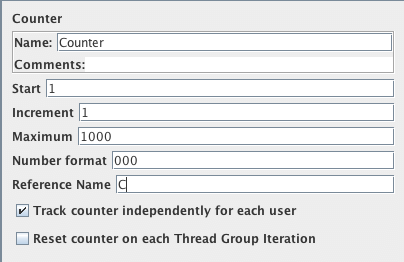
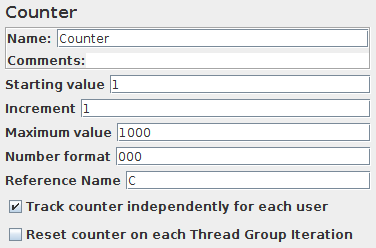
Better label/translation/documentation for labels start and max for Counter element
git-svn-id: https://svn.apache.org/repos/asf/jmeter/trunk@1804380 13f79535-47bb-0310-9956-ffa450edef68

Changed region(s): [[0.0, 0.0, 1.0, 1.0]]

diff --git a/src/components/org/apache/jmeter/modifiers/gui/CounterConfigGui.java b/src/components/org/apache/jmeter/modifiers/gui/CounterConfigGui.java
@@ -122,9 +122,9 @@ public class CounterConfigGui extends AbstractConfigGui implements ActionListene
         setBorder(makeBorder());
         setLayout(new VerticalLayout(5, VerticalLayout.BOTH));
 
-        startField = new JLabeledTextField(JMeterUtils.getResString("start"));//$NON-NLS-1$
+        startField = new JLabeledTextField(JMeterUtils.getResString("start_value"));//$NON-NLS-1$
         incrField = new JLabeledTextField(JMeterUtils.getResString("increment"));//$NON-NLS-1$
-        endField = new JLabeledTextField(JMeterUtils.getResString("max"));//$NON-NLS-1$
+        endField = new JLabeledTextField(JMeterUtils.getResString("max_value"));//$NON-NLS-1$
         varNameField = new JLabeledTextField(JMeterUtils.getResString("var_name"));//$NON-NLS-1$
         formatField = new JLabeledTextField(JMeterUtils.getResString("format"));//$NON-NLS-1$
         perUserField = new JCheckBox(JMeterUtils.getResString("counter_per_user"));//$NON-NLS-1$
